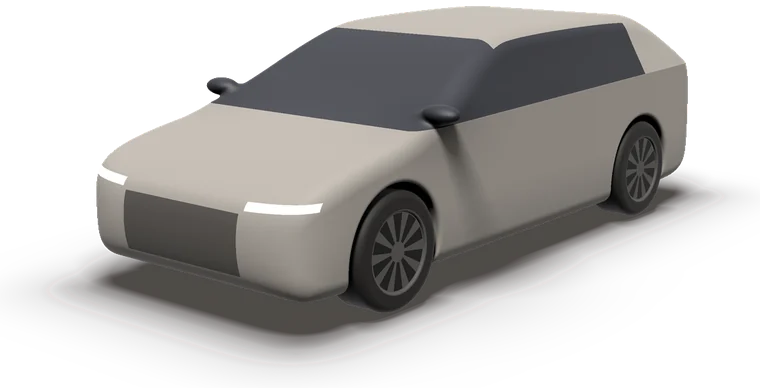
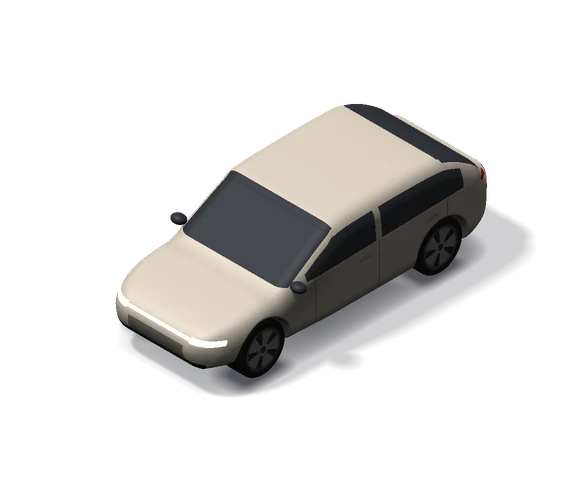
2.2.0b5: modern clay cars in the house's view (#25)

diff --git a/custom_components/ev_household_planner/frontend/ev-planner-panel.js b/custom_components/ev_household_planner/frontend/ev-planner-panel.js
@@ -1397,9 +1397,10 @@ const ClayScene = (() => {
     van: { L: 4.71, Wd: 1.98, wheels: [0.88, 3.88], r: 0.385, cs: 7, rs: 10, re: 11, ce: 14, pillars: [0.3, 0.6, 0.86], pts: [[0.06, 0.4, 0.12], [0.01, 0.55, 0.14], [0, 0.75, 0.14], [0.03, 0.95, 0.12], [0.15, 1.07, 0.08], [0.35, 1.12, 0.05], [0.5, 1.14, 0.05], [0.6, 1.16, 0.07], [0.8, 1.42, 0.11], [1.05, 1.76, 0.15], [1.3, 1.9, 0.17], [4.45, 1.94, 0.17], [4.6, 1.88, 0.16], [4.67, 1.7, 0.14], [4.7, 1.45, 0.1], [4.71, 1.25, 0.09], [4.71, 1.0, 0.1], [4.71, 0.65, 0.11], [4.68, 0.48, 0.12], [4.6, 0.4, 0.12]] },
   };
 
-  // Clay renders of each kind of car, from the front left as the house is seen: the picture's size,
-  // and where the car itself (without its shadow) sits in it.
-  const CAR_PICTURES = {"mini": {"w": 760, "h": 388, "solid": [96.4, 6.1, 686.5, 312.2]}, "sedan": {"w": 760, "h": 374, "solid": [95.5, 6.5, 690.5, 299.5]}, "suv": {"w": 760, "h": 413, "solid": [94.4, 5.7, 692.1, 331.6]}, "estate": {"w": 760, "h": 380, "solid": [90.6, 5.5, 694.0, 297.7]}, "van": {"w": 760, "h": 438, "solid": [106.0, 6.3, 691.8, 362.3]}};
+  // Clay renders of each kind of car, made in the house's own view (true isometric, the same light).
+  // Each picture covers the same box, measured from the car's far rear corner on the ground.
+  const CAR_BOX = { x: -128, y: -58, w: 190, h: 160 };
+  const CAR_PICTURES = { mini: CAR_BOX, sedan: CAR_BOX, suv: CAR_BOX, estate: CAR_BOX, van: CAR_BOX };
   const carPicture = (kind) => {
     try {
       const url = new URL(`./cars/${kind}.webp`, import.meta.url);
@@ -1434,14 +1435,8 @@ const ClayScene = (() => {
     }
     const picture = CAR_PICTURES[kind];
     if (picture) {
-      // The car's own picture, fitted to where it stands: its width to the car's width on the ground, its wheels on it.
-      const corners = [M(0, 0, 0), M(0, Wd, 0), M(L, 0, 0), M(L, Wd, 0)].map((p) => P(...p));
-      const left = Math.min(...corners.map((c) => c[0]));
-      const right = Math.max(...corners.map((c) => c[0]));
-      const bottom = Math.max(...corners.map((c) => c[1]));
-      const [sx0, , sx1, sy1] = picture.solid;
-      const k = (right - left) / (sx1 - sx0);
-      return s + `<image href="${carPicture(kind)}" x="${f1(left - sx0 * k)}" y="${f1(bottom - sy1 * k + 3)}" width="${f1(picture.w * k)}" height="${f1(picture.h * k)}"/>`;
+      const [ox, oy] = P(x0, y0, 0);
+      return s + `<image href="${carPicture(kind)}" x="${f1(ox + picture.x)}" y="${f1(oy + picture.y)}" width="${f1(picture.w)}" height="${f1(picture.h)}"/>`;
     }
     const glassTop = dark ? "#3E4756" : "#262B33";
     const glassSide = dark ? "#333B48" : "#2B3038";

diff --git a/CHANGELOG.md b/CHANGELOG.md
@@ -2,6 +2,13 @@
 
 All notable changes to EV Planner. The version is the one in `custom_components/ev_planner/manifest.json`.
 
+## [2.2.0b5] - 2026-11-09
+
+Beta: only those who show beta versions in the Marketplace get it.
+
+### Changed
+- **The cars in the Home tab** are new clay models of modern electric cars, made in the same view and light as the house, so they stand on the drive instead of being pasted onto it: real side windows, a closed front with a slim light across it, a light bar at the back and aero wheels; the SUV has black trim and roof rails. Each kind keeps its own colour, and the car brings its own soft shadow.
+
 ## [2.2.0b4] - 2026-11-09
 
 Beta: only those who show beta versions in the Marketplace get it.
